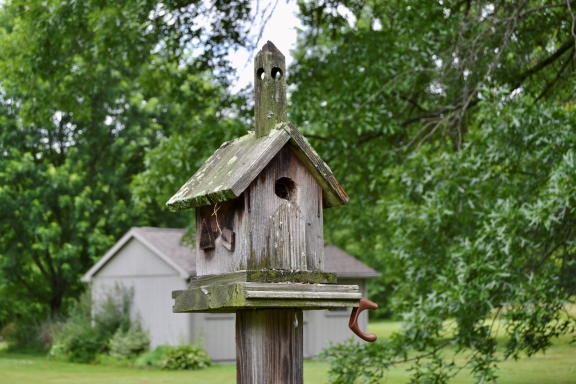
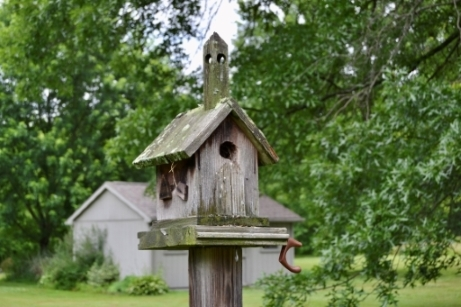
changed photo size

diff --git a/otherPhotos.html b/otherPhotos.html
@@ -13,7 +13,7 @@
 					<td><a href="fullsizeimages/photo/photo1.jpg"><img border="5" src="images/photo/photo1.jpg" width="408" height="306"></a></td><td><a href="fullsizeimages/photo/photo2.jpg"><img border="5" src="images/photo/photo2.jpg" width="408" height="306"></a></td>
 				</tr>
 				<tr>
-					<td><a href="fullsizeimages/photo/photo3.jpg"><img border="5" src="images/photo/photo3.jpg" width="576" height="384"></a></td>
+					<td><a href="fullsizeimages/photo/photo3.jpg"><img border="5" src="images/photo/photo3.jpg" width="461" height="307"></a></td>
 				</tr>
 			</table>
 		</center>
